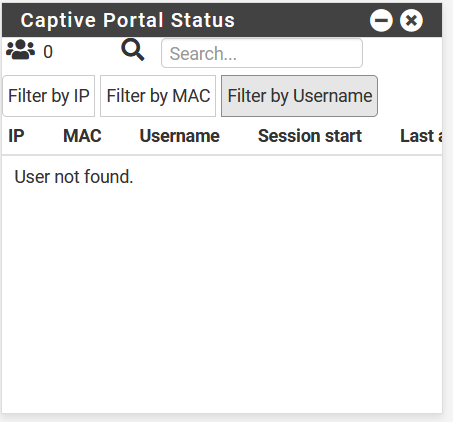
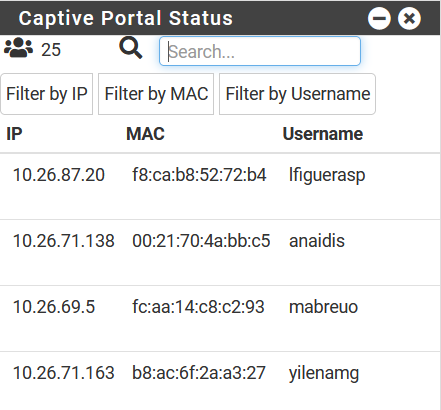
update readme

diff --git a/README.md b/README.md
@@ -9,3 +9,7 @@ The difference with the original witget is that the number of connected users is
 `cp captive_portal_status.widget.php /usr/local/www/witgets/witgets`
 
 ![captive_portal](./img/captive_portal.png)
+
+## Filter
+
+![captive_portal](./img/captive_portal_filter.png)
